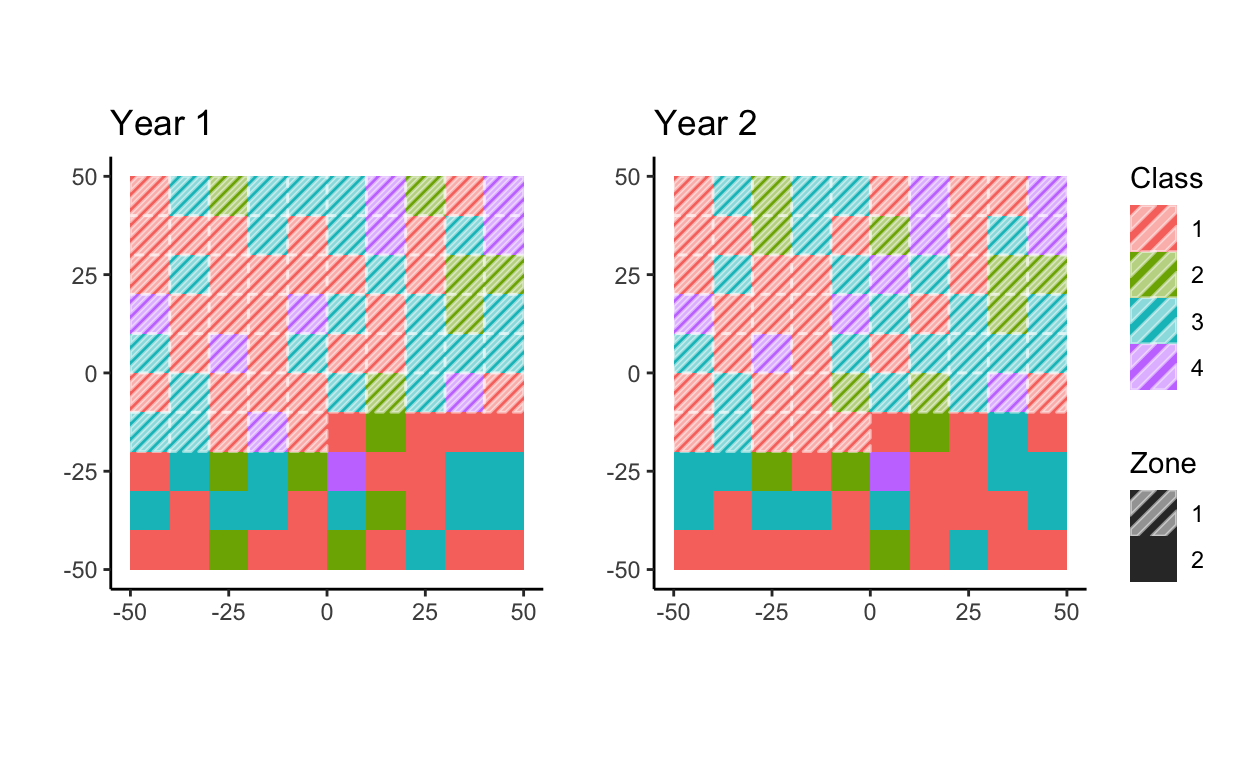
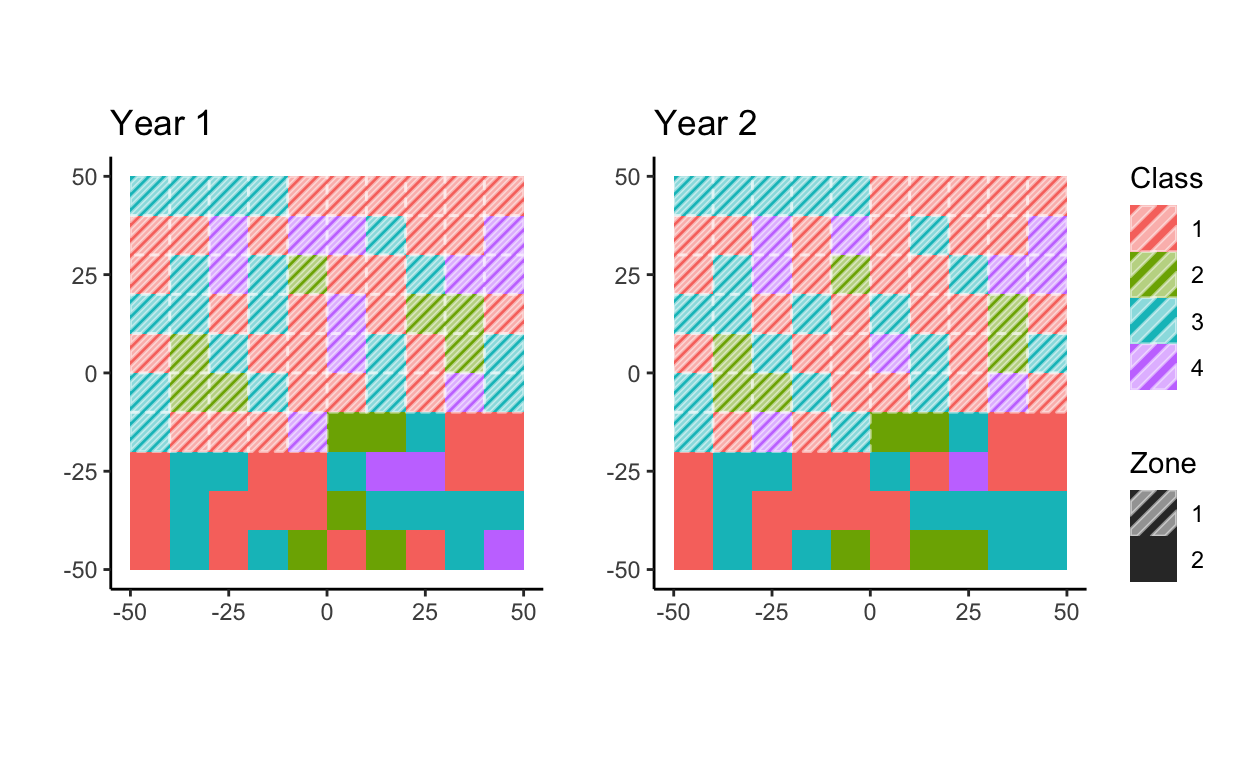
WIP: zonal statistics

Changed region(s): [[0.0938, 0.2188, 0.4375, 0.75], [0.5312, 0.2188, 0.875, 0.75]]

diff --git a/_posts/2022-02-19-raster-class-changes-by-zone/raster-class-changes-by-zone.html b/_posts/2022-02-19-raster-class-changes-by-zone/raster-class-changes-by-zone.html
@@ -93,8 +93,8 @@ code span.wa { color: #5e5e5e; font-style: italic; } /* Warning */
 
 
   <!--  https://schema.org/Article -->
-  <meta property="article:published" itemprop="datePublished" content="2022-02-24"/>
-  <meta property="article:created" itemprop="dateCreated" content="2022-02-24"/>
+  <meta property="article:published" itemprop="datePublished" content="2022-03-12"/>
+  <meta property="article:created" itemprop="dateCreated" content="2022-03-12"/>
   <meta name="article:author" content="Joel Larwood"/>
 
   <!--  https://developers.facebook.com/docs/sharing/webmasters#markup -->
@@ -112,7 +112,7 @@ code span.wa { color: #5e5e5e; font-style: italic; } /* Warning */
   <!--radix_placeholder_rmarkdown_metadata-->
 
   <script type="text/json" id="radix-rmarkdown-metadata">
-  {"type":"list","attributes":{"names":{"type":"character","attributes":{},"value":["title","description","author","date","output","draft"]}},"value":[{"type":"character","attributes":{},"value":["Raster Class Changes by Zone"]},{"type":"character","attributes":{},"value":["Creating classification change matrices between two rasters from zones defined in a third raster.  \n"]},{"type":"list","attributes":{},"value":[{"type":"list","attributes":{"names":{"type":"character","attributes":{},"value":["name"]}},"value":[{"type":"character","attributes":{},"value":["Joel Larwood"]}]}]},{"type":"character","attributes":{},"value":["2022-02-24"]},{"type":"list","attributes":{"names":{"type":"character","attributes":{},"value":["distill::distill_article"]}},"value":[{"type":"list","attributes":{"names":{"type":"character","attributes":{},"value":["self_contained"]}},"value":[{"type":"logical","attributes":{},"value":[false]}]}]},{"type":"logical","attributes":{},"value":[true]}]}
+  {"type":"list","attributes":{"names":{"type":"character","attributes":{},"value":["title","description","author","date","output","draft"]}},"value":[{"type":"character","attributes":{},"value":["Raster Class Changes by Zone"]},{"type":"character","attributes":{},"value":["Creating classification change matrices between two rasters from zones defined in a third raster.  \n"]},{"type":"list","attributes":{},"value":[{"type":"list","attributes":{"names":{"type":"character","attributes":{},"value":["name"]}},"value":[{"type":"character","attributes":{},"value":["Joel Larwood"]}]}]},{"type":"character","attributes":{},"value":["2022-03-12"]},{"type":"list","attributes":{"names":{"type":"character","attributes":{},"value":["distill::distill_article"]}},"value":[{"type":"list","attributes":{"names":{"type":"character","attributes":{},"value":["self_contained"]}},"value":[{"type":"logical","attributes":{},"value":[false]}]}]},{"type":"logical","attributes":{},"value":[true]}]}
   </script>
   <!--/radix_placeholder_rmarkdown_metadata-->
   
@@ -1459,7 +1459,7 @@ code span.wa { color: #5e5e5e; font-style: italic; } /* Warning */
 <!--radix_placeholder_front_matter-->
 
 <script id="distill-front-matter" type="text/json">
-{"title":"Raster Class Changes by Zone","description":"Creating classification change matrices between two rasters from zones defined in a third raster.","authors":[{"author":"Joel Larwood","authorURL":"#","affiliation":"&nbsp;","affiliationURL":"#","orcidID":""}],"publishedDate":"2022-02-24T00:00:00.000+10:00","citationText":"Larwood, 2022"}
+{"title":"Raster Class Changes by Zone","description":"Creating classification change matrices between two rasters from zones defined in a third raster.","authors":[{"author":"Joel Larwood","authorURL":"#","affiliation":"&nbsp;","affiliationURL":"#","orcidID":""}],"publishedDate":"2022-03-12T00:00:00.000+10:00","citationText":"Larwood, 2022"}
 </script>
 
 <!--/radix_placeholder_front_matter-->
@@ -1478,7 +1478,7 @@ code span.wa { color: #5e5e5e; font-style: italic; } /* Warning */
 <div class="d-byline">
   Joel Larwood  
   
-<br/>2022-02-24
+<br/>2022-03-12
 </div>
 
 <div class="d-article">
@@ -1579,10 +1579,10 @@ Figure 3: Classes in Year 1 and Year 2 with zone overlay
 </code></pre>
 </div>
 <pre><code>     layer value count
-[1,]     1     1    45
+[1,]     1     1    43
 [2,]     1     2    12
-[3,]     1     3    33
-[4,]     1     4    10</code></pre>
+[3,]     1     3    31
+[4,]     1     4    14</code></pre>
 </div>
 <div class="layout-chunk" data-layout="l-body">
 <div class="sourceCode">
@@ -1598,13 +1598,13 @@ Figure 3: Classes in Year 1 and Year 2 with zone overlay
 </code></pre>
 </div>
 <pre><code>     layer value count
-[1,]     1     1    45
+[1,]     1     1    43
 [2,]     1     2    12
-[3,]     1     3    33
-[4,]     1     4    10
+[3,]     1     3    31
+[4,]     1     4    14
 [5,]     2     1    46
-[6,]     2     2    12
-[7,]     2     3    32
+[6,]     2     2    11
+[7,]     2     3    33
 [8,]     2     4    10</code></pre>
 </div>
 <p>Again we can see that for each layer (layer = 1 is <code>year1</code> and layer = 2 is <code>year2</code> as defined by the order we stacked the rasters) that the count of cells is 100</p>
@@ -1632,10 +1632,10 @@ Figure 3: Classes in Year 1 and Year 2 with zone overlay
 </div>
 <pre><code>           zone
 year1_class  1  2
-          1 28 17
-          2  6  6
-          3 22 11
-          4  9  1</code></pre>
+          1 28 15
+          2  7  5
+          3 19 12
+          4 11  3</code></pre>
 </div>
 <h1 id="creating-classification-change-matrix">Creating Classification Change Matrix</h1>
 <p>We have two rasters representing two years with varying cell classifications and we may be interested in claculating the change from one class to another. Ignoring the zone raster we can create a simple classification change matrix by combining the <code>year1</code> and <code>year2</code> rasters into a single <code>RasterStack</code> and passing this to <code>terra::crosstab</code>. This returns a matrix showing the count of cells that have moved from a given class in year 1 (rows) to a given class in year 2 (cols)</p>
@@ -1648,10 +1648,10 @@ year1_class  1  2
 </div>
 <pre><code>           year2_class
 year1_class  1  2  3  4
-          1 38  2  4  1
-          2  3  9  0  0
-          3  4  1 28  0
-          4  1  0  0  9</code></pre>
+          1 40  1  1  1
+          2  2 10  0  0
+          3  2  0 29  0
+          4  2  0  3  9</code></pre>
 </div>
 <p>Note that the sum of the matrix is equal to 100 as we are couting the number of cells that have moved from a given class in <code>year1</code> to a given class in <code>year2</code> rather than the count of cells in a class in <code>year1</code> and the count of cells in a class in <code>year2</code></p>
 <div class="layout-chunk" data-layout="l-body">
@@ -1682,19 +1682,19 @@ Figure 4: Cells that changed values. Gray inidicates cell class did not change
 
            year2_class
 year1_class  1  2  3  4
-          1 23  2  2  1
-          2  1  5  0  0
-          3  2  1 19  0
-          4  1  0  0  8
+          1 26  0  1  1
+          2  1  6  0  0
+          3  2  0 17  0
+          4  1  0  2  8
 
 , , zone = 2
 
            year2_class
 year1_class  1  2  3  4
-          1 15  0  2  0
-          2  2  4  0  0
-          3  2  0  9  0
-          4  0  0  0  1</code></pre>
+          1 14  1  0  0
+          2  1  4  0  0
+          3  0  0 12  0
+          4  1  0  1  1</code></pre>
 </div>
 <p>Note that now the sum of each <code>year1</code> x <code>year2</code> matrix is the number of cells in the given <code>zone</code> but that the two values sum to 100.</p>
 <div class="layout-chunk" data-layout="l-body">
@@ -1711,23 +1711,23 @@ year1_class  1  2  3  4
 </div>
 <div class="layout-chunk" data-layout="l-body">
 <pre><code>   year1_class year2_class zone Freq
-1            1           1    1   23
-2            1           2    1    2
-3            1           3    1    2
-4            1           4    1    1
-5            2           1    1    1
-6            2           2    1    5
-7            3           1    1    2
-8            3           2    1    1
-9            3           3    1   19
-10           4           1    1    1
-11           4           4    1    8
-12           1           1    2   15
-13           1           3    2    2
-14           2           1    2    2
-15           2           2    2    4
-16           3           1    2    2
-17           3           3    2    9
+1            1           1    1   26
+2            1           3    1    1
+3            1           4    1    1
+4            2           1    1    1
+5            2           2    1    6
+6            3           1    1    2
+7            3           3    1   17
+8            4           1    1    1
+9            4           3    1    2
+10           4           4    1    8
+11           1           1    2   14
+12           1           2    2    1
+13           2           1    2    1
+14           2           2    2    4
+15           3           3    2   12
+16           4           1    2    1
+17           4           3    2    1
 18           4           4    2    1</code></pre>
 </div>
 <p>This data can be used to calculate zonal classification counts by year by turning the data into a tidy dataframe by pivoting the table longer adding a column to indicate the year and a column indicating class.</p>
@@ -1751,16 +1751,16 @@ year1_class  1  2  3  4
 <pre><code># A tibble: 36 × 4
     zone  Freq year  class
    &lt;dbl&gt; &lt;int&gt; &lt;chr&gt; &lt;dbl&gt;
- 1     1    23 year1     1
- 2     1    23 year2     1
- 3     2    15 year1     1
- 4     2    15 year2     1
- 5     1     2 year1     1
- 6     1     2 year2     2
- 7     1     2 year1     1
- 8     1     2 year2     3
- 9     2     2 year1     1
-10     2     2 year2     3
+ 1     1    26 year1     1
+ 2     1    26 year2     1
+ 3     2    14 year1     1
+ 4     2    14 year2     1
+ 5     2     1 year1     1
+ 6     2     1 year2     2
+ 7     1     1 year1     1
+ 8     1     1 year2     3
+ 9     1     1 year1     1
+10     1     1 year2     4
 # … with 26 more rows</code></pre>
 </div>
 <p>From here we can group by <code>year</code>, <code>zone</code>, and <code>class</code> and sum the frequencies to get the count of the cells belonging to a given class in a give year</p>
@@ -1778,20 +1778,20 @@ year1_class  1  2  3  4
    year   zone class count
    &lt;chr&gt; &lt;dbl&gt; &lt;dbl&gt; &lt;int&gt;
  1 year1     1     1    28
- 2 year1     1     2     6
- 3 year1     1     3    22
- 4 year1     1     4     9
- 5 year1     2     1    17
- 6 year1     2     2     6
- 7 year1     2     3    11
- 8 year1     2     4     1
- 9 year2     1     1    27
-10 year2     1     2     8
-11 year2     1     3    21
+ 2 year1     1     2     7
+ 3 year1     1     3    19
+ 4 year1     1     4    11
+ 5 year1     2     1    15
+ 6 year1     2     2     5
+ 7 year1     2     3    12
+ 8 year1     2     4     3
+ 9 year2     1     1    30
+10 year2     1     2     6
+11 year2     1     3    20
 12 year2     1     4     9
-13 year2     2     1    19
-14 year2     2     2     4
-15 year2     2     3    11
+13 year2     2     1    16
+14 year2     2     2     5
+15 year2     2     3    13
 16 year2     2     4     1</code></pre>
 </div>
 <p>This is the same as taking the matrix for each zone and summing the rows or columns, where summing the rows will give the counts by class for <code>year1</code> and summing the columns will give the counts by class for <code>year2</code></p>
@@ -1805,24 +1805,24 @@ year1_class  1  2  3  4
 </div>
 <pre><code>           year2_class
 year1_class  1  2  3  4
-          1 23  2  2  1
-          2  1  5  0  0
-          3  2  1 19  0
-          4  1  0  0  8</code></pre>
+          1 26  0  1  1
+          2  1  6  0  0
+          3  2  0 17  0
+          4  1  0  2  8</code></pre>
 <div class="sourceCode">
 <pre class="sourceCode r"><code class="sourceCode r"><span class='co'>#Year 1 class counts </span>
 <span class='fu'><a href='https://rdrr.io/r/base/colSums.html'>rowSums</a></span><span class='op'>(</span><span class='va'>y1_y2_zone1</span><span class='op'>)</span>
 </code></pre>
 </div>
 <pre><code> 1  2  3  4 
-28  6 22  9 </code></pre>
+28  7 19 11 </code></pre>
 <div class="sourceCode">
 <pre class="sourceCode r"><code class="sourceCode r"><span class='co'>#Year 2 class counts </span>
 <span class='fu'><a href='https://rdrr.io/r/base/colSums.html'>colSums</a></span><span class='op'>(</span><span class='va'>y1_y2_zone1</span><span class='op'>)</span>
 </code></pre>
 </div>
 <pre><code> 1  2  3  4 
-27  8 21  9 </code></pre>
+30  6 20  9 </code></pre>
 </div>
 <div class="sourceCode" id="cb16"><pre class="sourceCode r distill-force-highlighting-css"><code class="sourceCode r"></code></pre></div>
 <!--radix_placeholder_article_footer-->
